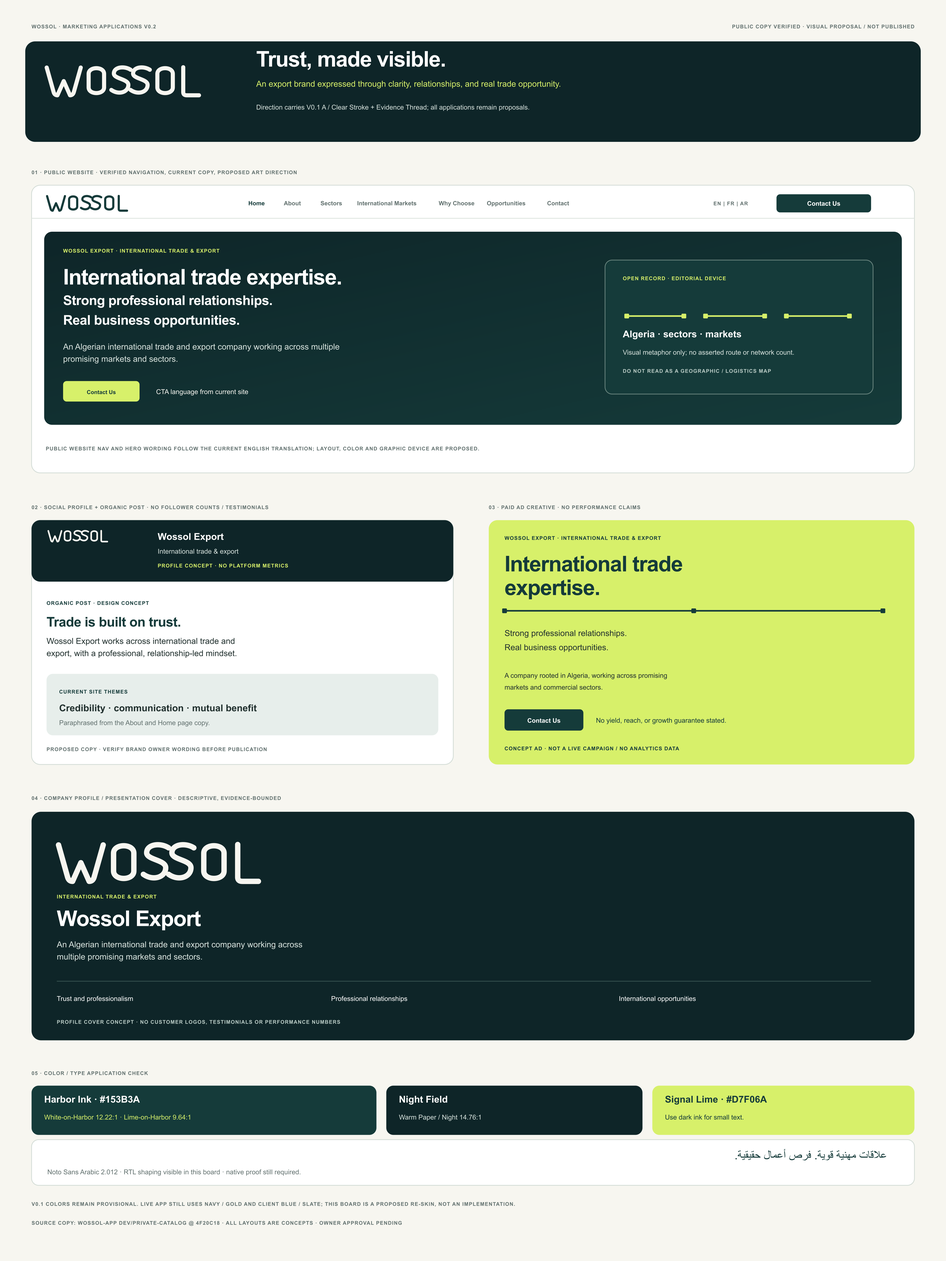
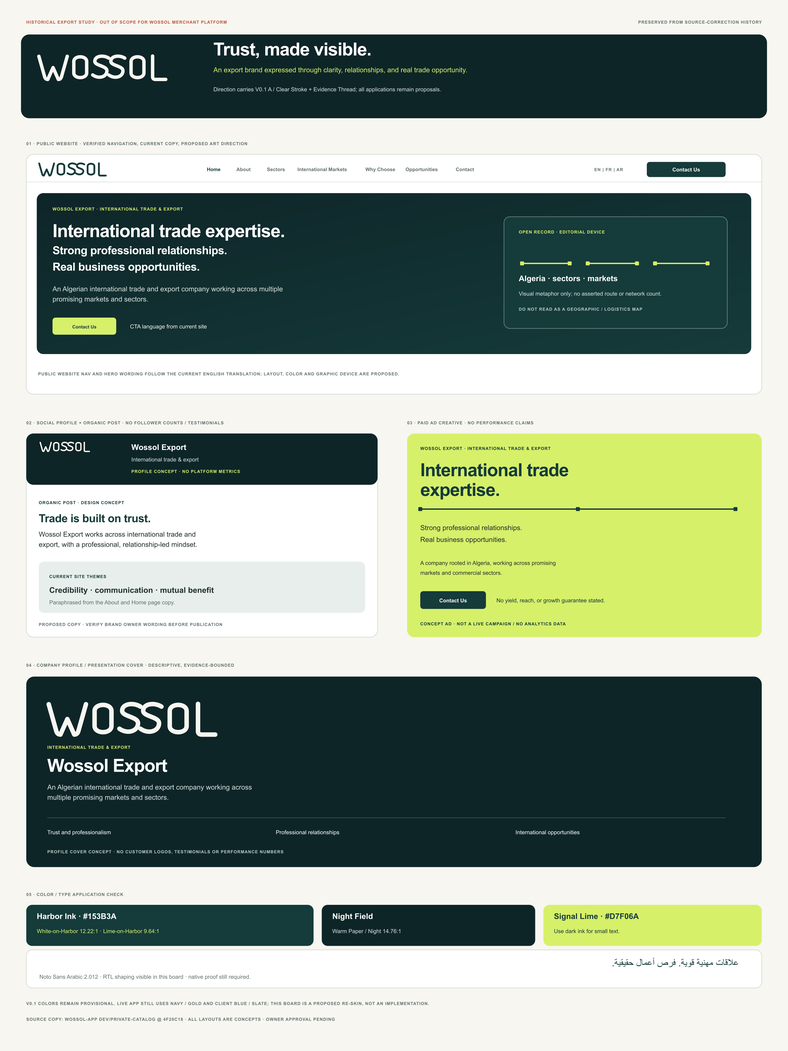
Correct V0.2 validation to merchant platform source

diff --git a/07-brand-identity-working/08-visual-identity/WOSSOL_V0.2_PRODUCT_SOURCE_CORRECTION_AR.md b/07-brand-identity-working/08-visual-identity/WOSSOL_V0.2_PRODUCT_SOURCE_CORRECTION_AR.md
@@ -1,0 +1,73 @@
+# تصحيح مصدر المنتج والتحقق من تطبيقات الهوية V0.2
+
+**التاريخ:** 2026-10-25
+
+**الحالة:** حزمة التحقق والتطبيق المصححة جاهزة لمراجعة المالك؛ لا اعتماد للهوية.
+
+**الفرع:** مستودع الذكاء `codex/brand-identity-complete`.
+
+**النطاق:** تصحيح اختيار مصدر المنتج السابق، والتحقق الموجّه من أسطح منصة التجار، وإنتاج تطبيقات المنتج والتسويق. لا يشمل إعادة تصميم الشعار.
+
+## خلاصة التصحيح
+
+كان اختيار المصدر في الجولة السابقة خطأً: `jetshop7/wossol-app` يخص تطبيق Wossol Export وليس منصة التجار المحددة في حوكمة المشروع. لذلك أُعيدت التطبيقات على المصدر المعتمد `jetshop7/wossol-platform`. احتُفظ بلوحتي Export والتقرير السابق كأثر تاريخي معلّم بوضوح **خارج نطاق منصة التجار**؛ لا تعتمد هذه الوثيقة استنتاجاتهما عن المنتج أو العلامة.
+
+## تحديد خط الأساس المعتمد
+
+قررت عدم استنتاج خط أساس النشر من اسم فرع أو من نسخة محلية:
+
+| الحالة | المرجع | التفسير |
+|---|---|---|
+| مستودع المنتج الرسمي | `jetshop7/wossol-platform` | مصدر المنتج وفق `AGENTS.md` في الفرع المرجعي. |
+| الفرع المرجعي الحالي | `dev/wossol-integration` | تنص تعليمات المستودع صراحة على أن `origin/dev/wossol-integration` هو ذاكرة المشروع المرجعية بين المهام. |
+| الرأس البعيد الذي فُحص | `3ed1386fa88496a2e80b5e144b14a198f6e1bc63` | تحقق مباشر بـ`git ls-remote` على GitHub؛ معاينة المسارات والملفات كانت من شجرة هذا الرأس. |
+| `origin/main` | `6de3a31959585cd6d8f3ff03179cae863bf1a98a` | رأس مختلف؛ لم يُختر بدل الفرع الذي تحدده الحوكمة. |
+| هل ثبت أنه إنتاج منشور؟ | **لا** | الحوكمة تثبت خط أساس التكامل/المصدر المرجعي، لا تطابقًا مع نشر حي. وسجل التنفيذ يحوي بوابات قبول runtime/browser غير مغلقة. لا أصفه بأنه إنتاج فعلي. |
+
+**حالة النسخة المحلية وقت الفحص:** checkout المنتج كان على `codex/analytics-persistence-foundation` عند `fd075fd4`، مع أربع ملفات Analytics معدلة وغير ملتزمة (`migration.sql`, `schema.prisma`, `analytics-outcome-monitoring.service.ts`, `analytics.module.ts`). لم أستخدم تلك التعديلات كدليل؛ قارنت بصمات ملفات واجهة التاجر الرئيسية مع كائنات `origin/dev/wossol-integration` ووجدتها متطابقة، واعتمدت المحتوى المثبت عند SHA أعلاه. لم أنفذ أي كتابة أو checkout أو stage أو تعديل في `wossol-platform`، أو `wossol-app`، أو `main`.
+
+## خريطة الأدلة من المصدر المثبت
+
+الروابط أدناه مثبتة على SHA `3ed1386fa88496a2e80b5e144b14a198f6e1bc63`، لا على رأس فرع متحرك.
+
+| ما تدعمه اللوحة | ملفات المصدر ذات الصلة |
+|---|---|
+| حوكمة الفرع/حالة التنفيذ | [`AGENTS.md`](https://github.com/jetshop7/wossol-platform/blob/3ed1386fa88496a2e80b5e144b14a198f6e1bc63/AGENTS.md)، [`docs/PROJECT_EXECUTION_CONTROL.md`](https://github.com/jetshop7/wossol-platform/blob/3ed1386fa88496a2e80b5e144b14a198f6e1bc63/docs/PROJECT_EXECUTION_CONTROL.md) |
+| غلاف التاجر، قائمة الأقسام، أوامر الطلبات، السياق/القائمة المتنقلة، وعلامة W المؤقتة | [`MerchantShell.tsx`](https://github.com/jetshop7/wossol-platform/blob/3ed1386fa88496a2e80b5e144b14a198f6e1bc63/apps/frontend/src/app/merchant/MerchantShell.tsx)، [`globals.css`](https://github.com/jetshop7/wossol-platform/blob/3ed1386fa88496a2e80b5e144b14a198f6e1bc63/apps/frontend/src/app/globals.css) |
+| Home: Quick actions، Needs attention، Recommended actions، Today، Current work، Performance snapshot، Recent updates | [`merchant/page.tsx`](https://github.com/jetshop7/wossol-platform/blob/3ed1386fa88496a2e80b5e144b14a198f6e1bc63/apps/frontend/src/app/merchant/page.tsx)، [مواصفة Home](https://github.com/jetshop7/wossol-platform/blob/3ed1386fa88496a2e80b5e144b14a198f6e1bc63/docs/ui/merchant/MERCHANT_HOME_SHELL_UI_SPEC.md) |
+| Orders: القائمة، التفاصيل، الإنشاء، الاستيراد، captures | [`merchant/orders/`](https://github.com/jetshop7/wossol-platform/tree/3ed1386fa88496a2e80b5e144b14a198f6e1bc63/apps/frontend/src/app/merchant/orders)، [مواصفة Orders](https://github.com/jetshop7/wossol-platform/blob/3ed1386fa88496a2e80b5e144b14a198f6e1bc63/docs/ui/merchant/MERCHANT_ORDERS_UI_SPEC.md) |
+| Products: المنتجات، الإنشاء/التعديل، التفاصيل والنسخ | [`merchant/products/`](https://github.com/jetshop7/wossol-platform/tree/3ed1386fa88496a2e80b5e144b14a198f6e1bc63/apps/frontend/src/app/merchant/products)، [مواصفة Products](https://github.com/jetshop7/wossol-platform/blob/3ed1386fa88496a2e80b5e144b14a198f6e1bc63/docs/ui/merchant/MERCHANT_PRODUCTS_UI_SPEC.md) |
+| Inventory: available/expected stock، الطلب، inbound، الجودة ومراجعة النقص | [`inventory/page.tsx`](https://github.com/jetshop7/wossol-platform/blob/3ed1386fa88496a2e80b5e144b14a198f6e1bc63/apps/frontend/src/app/merchant/inventory/page.tsx)، [مواصفة Inventory](https://github.com/jetshop7/wossol-platform/blob/3ed1386fa88496a2e80b5e144b14a198f6e1bc63/docs/ui/merchant/MERCHANT_INVENTORY_UI_SPEC.md) |
+| Customers: البحث، تاريخ التاجر/السجل، Reputation | [`customers/page.tsx`](https://github.com/jetshop7/wossol-platform/blob/3ed1386fa88496a2e80b5e144b14a198f6e1bc63/apps/frontend/src/app/merchant/customers/page.tsx)، [مواصفة Customers](https://github.com/jetshop7/wossol-platform/blob/3ed1386fa88496a2e80b5e144b14a198f6e1bc63/docs/ui/merchant/MERCHANT_CUSTOMERS_UI_SPEC.md) |
+| Advertising: Meta وTikTok، وحدود النتائج/الأداء | [`merchant/advertising/`](https://github.com/jetshop7/wossol-platform/tree/3ed1386fa88496a2e80b5e144b14a198f6e1bc63/apps/frontend/src/app/merchant/advertising)، [مواصفة Advertising](https://github.com/jetshop7/wossol-platform/blob/3ed1386fa88496a2e80b5e144b14a198f6e1bc63/docs/ui/merchant/MERCHANT_ADVERTISING_UI_SPEC.md) |
+| Analytics: أداء تشغيلي وRecovery وإشارات محددة | [`analytics/page.tsx`](https://github.com/jetshop7/wossol-platform/blob/3ed1386fa88496a2e80b5e144b14a198f6e1bc63/apps/frontend/src/app/merchant/analytics/page.tsx)، [مواصفة Analytics](https://github.com/jetshop7/wossol-platform/blob/3ed1386fa88496a2e80b5e144b14a198f6e1bc63/docs/ui/merchant/MERCHANT_ANALYTICS_UI_SPEC.md) |
+| بقية أسطح التاجر الظاهرة في التنقل | `merchant/applications/`, `confirmation/`, `external-shipping/`, `local-pickup/`, `finance/`, `market-center/`, `team/`, `notifications/`, `support/`, `settings/` تحت [`apps/frontend/src/app/merchant/`](https://github.com/jetshop7/wossol-platform/tree/3ed1386fa88496a2e80b5e144b14a198f6e1bc63/apps/frontend/src/app/merchant). تقييد Market Center بليبيا وتقييد Team بالدور/الصلاحية موضحان في `MerchantShell.tsx`. |
+
+هذه معاينة مصدرية للمسارات والمكونات والعقود، وليست جلسة متصفح مسجلة. لا أزعم أن كل قسم متاح لكل تاجر أو أن كل حالة اتصال/بيانات حية قد اختُبرت.
+
+## حدود الحقيقة التي تظهر في النسخة المصححة
+
+- الواجهة تعرض القوائم ضمن MerchantShell وسياق Workspace/Store؛ تظهر الأقسام بحسب الصلاحية والسياق. شريط التنقل المنكمش عرضه 88px ويعرض علامة W 36×36 حاليًا، بينما الوضع الموسع يعرض الاسم الكامل. هذه **علامة مؤقتة في المنتج** وليست اعتمادًا للشعار؛ وبذلك تُصحح نتيجة V0.2 السابقة التي قالت إن المنصة التي فُحصت لا تحتاج موضع علامة مدمجة.
+- المخزون يفصل Available عن Expected ويعرض ضغط الطلب/الطلبات المنتظرة ومشكلات البيانات؛ لا تحوّل اللوحة المخزون المتوقع إلى مخزون متاح.
+- صفحة العملاء تتيح سجل التاجر ورؤية Wossol Reputation بحدودها؛ لا تقدمها اللوحة كتنبؤ أو كموافقة/consent.
+- في Meta تُفصل نتائج مزود الإعلان عن Outcomes لطلبات Wossol المثبتة بإسناد دقيق. لا يوجد ادعاء causal lift أو ROAS/CPA مالي كامل. TikTok في المصدر الحالي لإدارة الاتصال والمعلنين المصرح بهم، لا لتقارير أداء.
+- Analytics يعرض مقاييس/تشخيصات تشغيلية محددة ومقيدة، لا حلقة تعلم تلقائية ولا ضمانًا لصحة القرار أو النتيجة.
+- القيم الظاهرة في الرسوم فقط placeholders أو `—`، وليست بيانات متاجر أو عملاء حقيقية.
+
+## التحقق من استخبارات المنتج واستراتيجية العلامة
+
+قارنت الواجهات بسجل [`PRODUCT_ROUTE_BACKEND_COVERAGE_RECONCILIATION`](../../03-master-synthesis/PRODUCT_ROUTE_BACKEND_COVERAGE_RECONCILIATION.md) وبالمقاطع المحدثة V1.2 في [`ORDERS`](../../02-section-intelligence/ORDERS.md)، [`PRODUCTS`](../../02-section-intelligence/PRODUCTS.md)، [`INVENTORY`](../../02-section-intelligence/INVENTORY.md)، [`CUSTOMERS`](../../02-section-intelligence/CUSTOMERS.md)، [`ADVERTISING`](../../02-section-intelligence/ADVERTISING.md)، و[`ANALYTICS / DECISION CENTER`](../../02-section-intelligence/ANALYTICS_DECISION_CENTER.md). واختبرت صياغة التسويق في ضوء [`Brand Strategic Evidence Master`](../../03-master-synthesis/WOSSOL_BRAND_STRATEGIC_EVIDENCE_MASTER.md) و[`Marketing Asset Master`](../../03-master-synthesis/WOSSOL_MARKETING_ASSET_MASTER.md).
+
+التوافق الاستراتيجي: إبراز سير العمل والسياق والأدلة المحدودة، لا قائمة مزايا عامة أو وعود ذكاء/نمو. تظل «ترابط الحقيقة التجارية»، والوكالة المحدودة، وتقليل إعادة بناء السياق موضوعات مدعومة في استخبارات المنتج؛ لكنها ليست شعارًا أو positioning معتمدًا. كما أن مصادر استخبارات المنتج أقدم من رأس الشيفرة الحالي؛ لذلك استخدمتُها كمرجع استراتيجي متقاطع، ورجّحت تحقق ملفات الواجهة الحالية عند `3ed1386` لأي وصف شاشة.
+
+## المخرجات المصححة
+
+- [لوحة منصة التجار — SVG](WOSSOL_V0.2_MERCHANT_PLATFORM_APPLICATIONS.svg) و[PNG](WOSSOL_V0.2_MERCHANT_PLATFORM_APPLICATIONS.png): التنقل الحقيقي ومشهد Home، وOrders، وProducts، وInventory، وCustomers، وAdvertising، وAnalytics، وبقية الوحدات. التمثيل المفاهيمي معلّم وليس screenshot.
+- [لوحة التسويق لمنصة التجار — SVG](WOSSOL_V0.2_MERCHANT_MARKETING_APPLICATIONS.svg) و[PNG](WOSSOL_V0.2_MERCHANT_MARKETING_APPLICATIONS.png): صفحة تقديم، منشور عضوي، وإعلان مقترح مبنية على عمل التاجر، مع عبارات غير معتمدة وحدود أدلة الإعلانات.
+- [تقرير V0.2 السابق](WOSSOL_V0.2_REAL_PRODUCT_VALIDATION_REPORT_AR.md) ولوحتا Export السابقتان موسومة الآن تاريخيًا وخارج نطاق منصة التجار، ومحفوظة كما هي في محتواها.
+
+رُسمت ملفات SVG إلى PNG باستخدام الخطوط المحلية نفسها، ثم أُجري فحص بصري ثابت. ألوان Harbor/Night/Lime وخطوط Inter/Noto من المقترح البصري المؤقت، وليست وصفًا لرموز CSS الحالية في التطبيق. لا يوجد اختبار runtime أو screenshot، ولا تحقق من النشر الإنتاجي أو مشاركة مستخدمين. بقي اتجاه A/Clear Stroke والألوان والخطوط كما هي بوصفها مقترحًا؛ لا إعادة استكشاف للشعار ولا اعتماد للهوية.
+
+## قرار المالك المطلوب
+
+مراجعة ما إذا كان اتجاه A والتطبيقات البصرية مناسبًا فعليًا لمنصة التجار؛ تحديد متطلبات العلامة المدمجة للـsidebar المنكمش بدل الـW المؤقت؛ ثم السماح باختبار واجهات حية/أجهزة فعلية ومراجعة عربية وإتاحة الوصول. لا تُنشر لوحات الحملات ولا تُستبدل علامة المنتج قبل هذا القرار.

diff --git a/07-brand-identity-working/PROJECT_STATUS.md b/07-brand-identity-working/PROJECT_STATUS.md
@@ -1,12 +1,12 @@
 # Brand Identity Project Status
 
 **Date:** 2026-10-25
-**Status:** UNDER_REVIEW — V0.2 REAL-PRODUCT APPLICATIONS AND TYPE QA COMPLETE; OWNER REVIEW REQUIRED; NO IDENTITY APPROVED
+**Status:** UNDER_REVIEW — V0.2 MERCHANT-PLATFORM SOURCE CORRECTION COMPLETE; OWNER REVIEW REQUIRED; NO IDENTITY APPROVED
 **Repository:** jetshop7/wossol-brand-intelligence (PUBLIC)
 **Scope:** Latin WOSSOL wordmark and compact mark production; custom Arabic lettering is deferred, not rejected or approved.
 
-## Current authoritative stage and next action (2026-10-25 — V0.2)
-Completed [Visual Identity V0.2 Real-Product Validation](08-visual-identity/WOSSOL_V0.2_REAL_PRODUCT_VALIDATION_REPORT_AR.md), with editable product and marketing application boards, rendered previews, and typography proof. The source check used `jetshop7/wossol-app` `dev/private-catalog` at `4f20c18d964bbac383de8bf30c84344734ba3980` (read-only). The inspected product is Wossol Export with a public international-trade site, gated client catalog, and partner pricing workspace; no user-facing Orders or Inventory routes were found in the inspected route tree, and `/admin/marketing` is market-study/report tooling, not ad analytics. Boards are code-derived concepts, not runtime screenshots. Inter 4.1 and Noto Sans Arabic 2.012 are packaged with OFL notices for proposal rendering; browser font behavior and native Arabic readability remain unverified. The generic W fallback was rejected; no compact mark is approved. **Next:** owner resolves product/brand scope, existing app-logo compatibility, and whether to test the provisional A/Clear Stroke palette/type system further. No colors, fonts, logo, icon or application are approved.
+## Current authoritative stage and next action (2026-10-25 — V0.2 source correction)
+Completed [V0.2 Product Source Correction](08-visual-identity/WOSSOL_V0.2_PRODUCT_SOURCE_CORRECTION_AR.md), with editable merchant-platform product and marketing application boards plus rendered previews. Correct source: `jetshop7/wossol-platform`, governance-selected `dev/wossol-integration`, remote HEAD `3ed1386fa88496a2e80b5e144b14a198f6e1bc63`. The former `wossol-app` / Export-oriented work is retained as labeled historical evidence outside merchant-platform scope and is superseded for Product validation. Current source confirms merchant routes for Orders, Products, Inventory, Customers, Advertising, Analytics and more; details are access/context-dependent. The collapsed shell uses a 36px placeholder W, so the previous “no compact placement” finding is corrected to an actual placement need; the W itself remains unapproved. Source boards are concepts, not runtime screenshots; production deployment is not verified. **Next:** owner review of applying provisional A / Clear Stroke and existing palette/type to the merchant platform, and authorization to validate the compact-mark placement against a running app. No identity element is approved.
 
 ### Previous V0.1 stage (historical; superseded by V0.2 source validation)
 Completed the [Complete Visual Identity System Proposal V0.1](08-visual-identity/VISUAL_IDENTITY_EXECUTIVE_REPORT_AR_V0.1.md), with the editable [SVG board](08-visual-identity/WOSSOL_COMPLETE_VISUAL_IDENTITY_SYSTEM_V0.1.svg), rendered [PNG board](08-visual-identity/WOSSOL_COMPLETE_VISUAL_IDENTITY_SYSTEM_V0.1.png), and [concise usage guidelines](08-visual-identity/VISUAL_IDENTITY_GUIDELINES_V0.1.md). The proposal carries forward A / Clear Stroke as a provisional Latin-first wordmark, introduces the Evidence Thread / Open Record graphic grammar, tests a restrained palette and licensed type proposals, and shows six synthetic application concepts. **Next:** owner review of the concept, palette, type pairing, copy, and whether an independent compact mark is required; install and render exact proposed fonts, then conduct accessibility, product-truth and native-language checks before any deployment. No logo, icon, color system, font system, or applications are approved.
@@ -31,11 +31,11 @@ V1.8 [compact/bilingual gate](08-visual-identity/graphic-system/COMPACT_BILINGUA
 - 'Merchant-Led Progress' and 'Expanding Merchant Capability' are hypotheses, not approved essence.
 
 ## Current step
-V0.2 real-product applications and typography assets are ready for owner review. A / Clear Stroke remains provisional, not an approved logo. The generic W fallback was rejected as a distinctive mark; no standalone icon is approved. Arabic custom lettering is deferred, not rejected or approved. No merchant research is represented as validating this proposal.
+V0.2 merchant-platform product and marketing applications are ready for owner review. A / Clear Stroke remains provisional, not an approved logo. The platform has an actual compact navigation placement currently filled by a temporary W; no standalone icon is approved. Arabic custom lettering is deferred, not rejected or approved. No merchant research is represented as validating this proposal. Export-oriented V0.2 assets are historical and out of scope for this merchant platform.
 
 ## Next actions
-1. Obtain owner direction on product/brand scope, application of the current Wossol Export identity, provisional A wordmark, palette/type proposals, and evidence for any standalone compact-mark need.
-2. If authorized, test the V0.2 proposals against running product layouts and actual target devices; current application boards are not runtime captures.
+1. Obtain owner direction on applying provisional A / Clear Stroke, palette and typography to the merchant platform; no visual element is approved.
+2. If authorized, test the actual collapsed-sidebar compact placement and V0.2 applications against running product layouts and target devices; current boards are not runtime captures.
 3. Complete native-language and browser accessibility review, actual focus/contrast checks, typography packaging/license confirmation and legal trademark clearance before public rollout.
 4. Keep Arabic custom lettering deferred. When resumed, use the saved specialist handoff and obtain native-reader assessment; do not present font specimens as custom lettering.
 5. Continue evidence-bounded positioning and capability work; do not turn schematic mockup copy or data into product claims.

diff --git a/07-brand-identity-working/PROJECT_INDEX.md b/07-brand-identity-working/PROJECT_INDEX.md
@@ -37,11 +37,12 @@ The files above are distinct evidence layers, not duplicate copies.
 - [Complete Visual Identity System V0.1 — SVG](08-visual-identity/WOSSOL_COMPLETE_VISUAL_IDENTITY_SYSTEM_V0.1.svg) and [PNG preview](08-visual-identity/WOSSOL_COMPLETE_VISUAL_IDENTITY_SYSTEM_V0.1.png) — editable identity board and inspected render; provisional only.
 - [Visual Identity Guidelines V0.1](08-visual-identity/VISUAL_IDENTITY_GUIDELINES_V0.1.md) — palette/contrast, typography, graphic grammar, application and governance rules (UNDER_REVIEW).
 
-## Visual Identity V0.2 — Real-Product Validation & Production — 2026-10-25
-- [Arabic Validation Report V0.2](08-visual-identity/WOSSOL_V0.2_REAL_PRODUCT_VALIDATION_REPORT_AR.md) — pinned Product source state, truthful route/surface validation, typography/licensing and contrast limits, compact-mark decision, and owner gates (UNDER_REVIEW).
-- [Product Applications — SVG](08-visual-identity/WOSSOL_V0.2_PRODUCT_APPLICATIONS.svg) and [PNG](08-visual-identity/WOSSOL_V0.2_PRODUCT_APPLICATIONS.png) — editable code-derived concept for verified client and partner surfaces; not a runtime screenshot.
-- [Marketing Applications — SVG](08-visual-identity/WOSSOL_V0.2_MARKETING_APPLICATIONS.svg) and [PNG](08-visual-identity/WOSSOL_V0.2_MARKETING_APPLICATIONS.png) — proposed public, social, paid and profile applications using source-verified copy; not published assets.
-- [Typography QA — SVG](08-visual-identity/WOSSOL_V0.2_TYPE_QA.svg) and [PNG](08-visual-identity/WOSSOL_V0.2_TYPE_QA.png), with local font packages/license notices in [fonts](08-visual-identity/fonts/FONT_ASSET_README.md) — static proof only; browser and native-reader verification pending.
+## Visual Identity V0.2 — Source correction — 2026-10-25
+- [Merchant Platform Source Correction Report AR](08-visual-identity/WOSSOL_V0.2_PRODUCT_SOURCE_CORRECTION_AR.md) — authoritative branch/commit decision, route evidence map, product-intelligence cross-check, corrections and owner gates (UNDER_REVIEW).
+- [Merchant Platform Applications — SVG](08-visual-identity/WOSSOL_V0.2_MERCHANT_PLATFORM_APPLICATIONS.svg) and [PNG](08-visual-identity/WOSSOL_V0.2_MERCHANT_PLATFORM_APPLICATIONS.png) — current source-grounded merchant shell, Home, Orders, Products, Inventory, Customers, Advertising, Analytics and navigation; concept, not screenshot.
+- [Merchant Marketing Applications — SVG](08-visual-identity/WOSSOL_V0.2_MERCHANT_MARKETING_APPLICATIONS.svg) and [PNG](08-visual-identity/WOSSOL_V0.2_MERCHANT_MARKETING_APPLICATIONS.png) — proposed product landing, organic and paid examples with claim boundaries; not published.
+- **Historical / out of scope for merchant-platform validation:** [previous Export-source report](08-visual-identity/WOSSOL_V0.2_REAL_PRODUCT_VALIDATION_REPORT_AR.md), [Export-oriented product board](08-visual-identity/WOSSOL_V0.2_PRODUCT_APPLICATIONS.svg) and [marketing board](08-visual-identity/WOSSOL_V0.2_MARKETING_APPLICATIONS.svg). Preserved as evidence of the earlier source-selection error, not current product truth.
+- [Typography QA — SVG](08-visual-identity/WOSSOL_V0.2_TYPE_QA.svg) and [PNG](08-visual-identity/WOSSOL_V0.2_TYPE_QA.png), with local font packages/license notices in [fonts](08-visual-identity/fonts/FONT_ASSET_README.md) — static type proof remains applicable only as proposal; browser and native-reader verification pending.
 
 ## Integrated Strategic / Creative Handoff
 - [Integrated Brand & Creative Brief V0.1](04-brand-strategy/INTEGRATED_BRAND_AND_CREATIVE_BRIEF_V0.1.md) — consolidated evidence-backed and hypothetical requirements for naming, architecture, visual concepts, applications and validation (UNDER_REVIEW).

diff --git a/07-brand-identity-working/CHANGELOG.md b/07-brand-identity-working/CHANGELOG.md
@@ -1,5 +1,10 @@
 # Brand Identity Changelog
 
+## 2026-10-25 — V0.2 Product source correction
+- Corrected the previous source-selection error: `wossol-platform`, not `wossol-app`, is the governed Product Source of Truth for the merchant platform. Selected `dev/wossol-integration` at remotely verified HEAD `3ed1386fa88496a2e80b5e144b14a198f6e1bc63` per Product `AGENTS.md`; explicitly did not call this a verified production deployment. The local Product checkout was on a separate Analytics feature branch with four uncommitted files and was not used as the baseline or modified.
+- Replaced Export-oriented application examples with editable/rendered merchant-platform boards covering current merchant navigation and key Orders, Products, Inventory, Customers, Advertising and Analytics screens plus other supported sections. Cross-checked with accepted Product intelligence and strategy; preserved provisional A / Clear Stroke, palette and type.
+- Corrected compact-mark finding: the current merchant shell contains a 36×36 temporary W in its collapsed sidebar; an actual compact placement exists, but the placeholder is not approved. Kept previous Export report/boards and relabeled them historical/out of scope. Updated status and index. No Product or `main` files changed; no identity approved.
+
 ## 2026-10-25 — Real-product validation and production V0.2
 - Completed source validation against `jetshop7/wossol-app` `dev/private-catalog` at `4f20c18d964bbac383de8bf30c84344734ba3980` (read-only). Added product and marketing SVG/PNG application boards, licensed local Inter/Noto Sans Arabic fonts and notices, and exact-font typography proof.
 - Grounded mockups in Wossol Export public, client-catalog and partner-pricing surfaces. Explicitly separated unlocated user-facing Orders/Inventory routes and the market-study admin marketing tool from mock screens/analytics claims. Rejected generic W as a distinctive compact mark.

diff --git a/07-brand-identity-working/08-visual-identity/WOSSOL_V0.2_REAL_PRODUCT_VALIDATION_REPORT_AR.md b/07-brand-identity-working/08-visual-identity/WOSSOL_V0.2_REAL_PRODUCT_VALIDATION_REPORT_AR.md
@@ -1,7 +1,11 @@
-# WOSSOL — تحقق الهوية البصرية على المنتج الحقيقي V0.2
+# سجل تاريخي مصحح — تحقق V0.2 على Wossol Export (خارج نطاق منصة التجار)
 
-**التاريخ:** 2026-10-25  
-**الحالة:** مقترح بصري جاهز لمراجعة المالك؛ لا يوجد شعار أو نظام بصري معتمد.  
+> **تنبيه مصدر:** استُخدم هنا `jetshop7/wossol-app` بالخطأ كمصدر منتج العلامة. يصف هذا السجل تطبيق Wossol Export فقط، ولا يثبت حقيقة منصة التجار `jetshop7/wossol-platform`. اللوحتان التاليتان محفوظتان كأثر تاريخي خارج النطاق: `WOSSOL_V0.2_PRODUCT_APPLICATIONS` و`WOSSOL_V0.2_MARKETING_APPLICATIONS`. البديل الصحيح وتحقيق أدلته في [تصحيح مصدر المنتج V0.2](WOSSOL_V0.2_PRODUCT_SOURCE_CORRECTION_AR.md). لا تُستخدم الاستنتاجات الخاصة بالأسطح أو العلامة المدمجة هنا لتقرير هوية منصة التجار.
+
+**التاريخ:** 2026-10-25
+
+**الحالة:** سجل تاريخي محفوظ؛ مستبدل في تحقق منصة التجار بتقرير تصحيح المصدر المرتبط أعلاه.
+
 **النطاق:** تطبيق هوية V0.1 مؤقتة على أسطح المنتج والتسويق الفعلية، مراجعة الخطوط، واختبار الحاجة إلى علامة مدمجة. لا يشمل إعادة استكشاف الشعار أو اللون.
 
 ## الملخص التنفيذي
